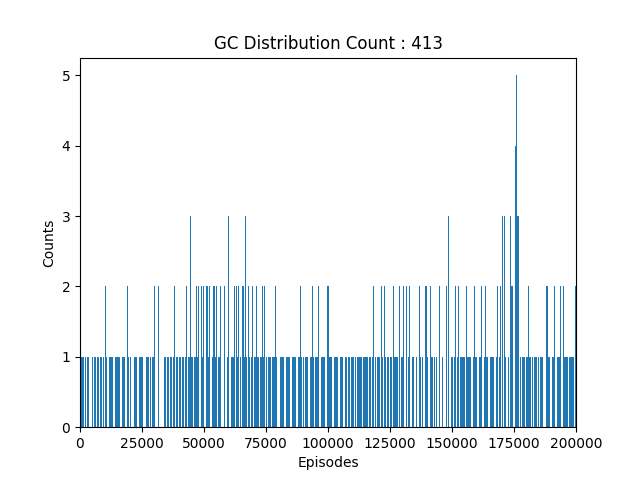
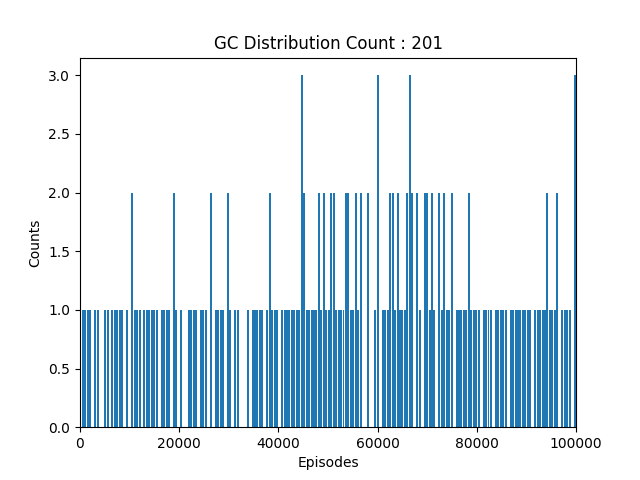
add RL mode the testcase is in agent.py

diff --git a/host/host_interface.py b/host/host_interface.py
@@ -10,17 +10,66 @@ TRACE_LENGTH = int(os.getenv('TRACE_LENGTH'))
 class HostInterface:
     def __init__(self):
         #self.hostRequestQueue = HostRequestQueue()
-        self.count = 0
+        self.episode = 0
+        self.step = 0
         self.hostRequestQueueAction = HostRequestQueueAction()
         self.hostRequestQueueAction.LoadTrace(TRACE_PATH, TRACE_LENGTH)
         self.flashTranslation = FlashTranslation()
+        self.currentRequest = None
 
-    # environment step
+    # reset everything
+    def Reset(self):
+        self.flashTranslation.Reset()
+        self.hostRequestQueueAction.Reset()
+        self.episode = 0 
+        self.step = 0
+        self.currentRequest = self.hostRequestQueueAction.GetWriteRequest()
+        return self.currentRequest
+
+    # only reset flash translation and set environment for new episode
+    def NewEpisode(self):
+        self.flashTranslation.Reset()
+        self.episode += 1
+        self.step = 0
+        self.currentRequest = self.hostRequestQueueAction.GetWriteRequest()
+        return self.currentRequest
+
+    # only work for testing strategy
+    def SetStrategyType(self, strategyType):
+        self.flashTranslation.SetStrategyType(strategyType)
+
+    def GetFreeSpaceRatio(self):
+        return self.flashTranslation.nandController.GetFreeSpaceRatio()
+
+    def GetRewardAndWAF(self):
+        return self.flashTranslation.nandController.GetRewardAndWAF()
+    
+    def UpdateBlockWAFDistribution(self):
+        self.flashTranslation.nandController.UpdateBlockWAFDistribution()
+
+    def GetDistributionCounter(self):
+        return self.flashTranslation.nandController.distributionCounter
+
+    def GetGCSuccessEpisodes(self):
+        return self.flashTranslation.garbageCollection.gcHistory.gcSuccessEpisodes        
+
+    # environment step for testing strategy
     def Step(self):
         writeRequest = self.hostRequestQueueAction.GetWriteRequest()
         totalWriteBytes = self.Fio(writeRequest)
-        self.count += 1
+        self.step += 1
         return writeRequest, totalWriteBytes
 
     def Fio(self, request):
-        return self.flashTranslation.Write(request, self.count)
+        return self.flashTranslation.Write(request, self.step)
+    
+    # environment step for RL strategy
+    def StepByAction(self, action):
+        totalWriteBytes = self.FioByAction(self.currentRequest, action)
+        self.step += 1
+        self.currentRequest = self.hostRequestQueueAction.GetWriteRequest()
+        reward, waf = self.GetRewardAndWAF()
+        return reward, self.currentRequest
+    
+    def FioByAction(self, request, action):
+        return self.flashTranslation.WriteByAction(request, self.step, action)

diff --git a/ftl/flash_translation.py b/ftl/flash_translation.py
@@ -21,9 +21,17 @@ class FlashTranslation:
         self.garbageCollection = GarbageCollection(self.nandController, self.addressTranslation)
         self.strategyType = None
 
+    def Reset(self):
+        self.dataCacheManage.Reset()
+        self.nandController.Reset()
+        self.addressTranslation.Reset()
+        self.garbageCollection.Reset()
+
+    # oonly work for testing strategy
     def SetStrategyType(self, strategyType):
         self.strategyType = strategyType
 
+    # only work for testing strategy
     def GetBlockType(self, request):
         if self.strategyType == 'All':
             action = ACTION_SPACE[0]
@@ -34,7 +42,7 @@ class FlashTranslation:
         return action
     
     # return actual write bytes
-    def Write(self, request, episode):
+    def Write(self, request, step):
         totalWriteBytes = 0
         self.dataCacheManage.WriteCache(request)
         writeType = self.GetBlockType(request)
@@ -45,6 +53,22 @@ class FlashTranslation:
             programPage, writeBytes = self.nandController.Program(lbas, writeType)
             self.addressTranslation.Update(page, programPage)
             totalWriteBytes += writeBytes
-        if episode % ACTIVE_GC_PERIOD == 0:
-            totalWriteBytes += self.garbageCollection.AutoCheckByFullInvalid(episode)
+        if step % ACTIVE_GC_PERIOD == 0:
+            totalWriteBytes += self.garbageCollection.AutoCheckByFullInvalid(step)
+        return totalWriteBytes
+    
+    # work for RL strategy
+    def WriteByAction(self, request, step, action):
+        totalWriteBytes = 0
+        self.dataCacheManage.WriteCache(request)
+        writeType = ACTION_SPACE[action]
+        while True:
+            page = self.dataCacheManage.GetCache()
+            if not page: break
+            lbas = ([self.addressTranslation[address] for address in page])
+            programPage, writeBytes = self.nandController.Program(lbas, writeType)
+            self.addressTranslation.Update(page, programPage)
+            totalWriteBytes += writeBytes
+        if step % ACTIVE_GC_PERIOD == 0:
+            totalWriteBytes += self.garbageCollection.AutoCheckByFullInvalid(step)
         return totalWriteBytes

diff --git a/main.py b/main.py
@@ -16,18 +16,18 @@ SIMULATE_PROGRESS_RESULT = os.getenv('SIMULATE_PROGRESS_RESULT')
 
 def strategy(strategyType):
     hostInterface = HostInterface()
-    hostInterface.flashTranslation.SetStrategyType(strategyType)
+    hostInterface.SetStrategyType(strategyType)
     history = History()
     for i in tqdm(range(TRACE_LENGTH)):
         request, writeBytes = hostInterface.Step()
-        freeSpaceRatio = hostInterface.flashTranslation.nandController.GetFreeSpaceRatio()
+        freeSpaceRatio = hostInterface.GetFreeSpaceRatio()
         if i % ESTIMATE_WAF_PERIOD == 0:
-            reward, waf = hostInterface.flashTranslation.nandController.GetRewardAndWAF()
-            hostInterface.flashTranslation.nandController.UpdateBlockWAFDistribution()
+            reward, waf = hostInterface.GetRewardAndWAF()
+            hostInterface.UpdateBlockWAFDistribution()
             history.AddRewardAndWaf(i, reward, waf, freeSpaceRatio)
-    history.ShowBlockWAFDistribution(f'{WAF_DISTRIBUTION_RESULT}/{strategyType}.png', hostInterface.flashTranslation.nandController.distributionCounter)
+    history.ShowBlockWAFDistribution(f'{WAF_DISTRIBUTION_RESULT}/{strategyType}.png', hostInterface.GetDistributionCounter())
     history.ShowRewardAndWafHistory(f'{SIMULATE_PROGRESS_RESULT}/{strategyType}.png')
-    history.ShowGCDistribution(f'{GC_DISTRIBUTION_RESULT}/{strategyType}.png', hostInterface.flashTranslation.garbageCollection.gcHistory.gcSuccessEpisodes)
+    history.ShowGCDistribution(f'{GC_DISTRIBUTION_RESULT}/{strategyType}.png', hostInterface.GetGCSuccessEpisodes())
 
 def main():
     strategyTypes = STRATEGY_TYPES.split(',')

diff --git a/libs/distribution.py b/libs/distribution.py
@@ -10,17 +10,14 @@ EPSILON_RIGHT = float(os.getenv('EPSILON_RIGHT'))
 EPSILON_MIN = float(os.getenv('EPSILON_MIN'))
 EPSILON_DECAY = float(os.getenv('EPSILON_DECAY'))
 
-def GetRewardFunction():
-    delta = EPSILON - EPSILON_MIN
-    left = [EPSILON_MIN + delta * np.exp(-i / EPSILON_DECAY) for i in range(N//2)]
-    delta_right = EPSILON_RIGHT - EPSILON_MIN
-    right = [EPSILON_MIN + delta_right * np.exp(-i / EPSILON_DECAY) for i in range(N//2)]
-    right.sort()
-    left.extend(right)
-    return left
+delta = EPSILON - EPSILON_MIN
+reward_function = [EPSILON_MIN + delta * np.exp(-i / EPSILON_DECAY) for i in range(N//2)]
+delta_right = EPSILON_RIGHT - EPSILON_MIN
+right = [EPSILON_MIN + delta_right * np.exp(-i / EPSILON_DECAY) for i in range(N//2)]
+right.sort()
+reward_function.extend(right)
 
 def MultiplyRewardFunction(waf):
-    reward_function = GetRewardFunction()
     index = int(waf * N) - N - 1
     # return waf * reward_function[index]
     return reward_function[index]

diff --git a/ftl/gc/garbage_collection.py b/ftl/gc/garbage_collection.py
@@ -11,6 +11,10 @@ class GCHistory:
     def __init__(self) -> None:
         self.gcSuccessEpisodes = Counter()
         self.gcFailEpisodes = Counter()
+
+    def Reset(self):
+        self.gcSuccessEpisodes = Counter()
+        self.gcFailEpisodes = Counter()
     
     def Success(self, episode):
         self.gcSuccessEpisodes.update([episode])
@@ -24,6 +28,9 @@ class GarbageCollection:
         self.addressTranslation = addressTranslation
         self.gcHistory = GCHistory()
         
+    def Reset(self):
+        self.gcHistory.Reset()
+
     # use in passive gc, it will only run when free space is less than setting free ratio -- version 1
     # when there is an full invalid block do garbage collection, besides don't do -- version 2
     def AutoCheckByFullInvalid(self, episode):

diff --git a/ftl/nand/nand_controller.py b/ftl/nand/nand_controller.py
@@ -22,6 +22,14 @@ class NandController:
         self.distributionCounter = Counter()
         self.InitializeBlocks()
 
+    def Reset(self):
+        for block in self.blocks:
+            block.Reset()
+        self.freeBlockIndexes = deque([i for i in range(BLOCK_NUM)])
+        self.currentHotBlockIndex = None 
+        self.currentColdBlockIndex = None 
+        self.distributionCounter = Counter()
+
     def InitializeBlocks(self):
         PrintLog('Build Virtual Blocks...')
         for i in tqdm(range(BLOCK_NUM)):

diff --git a/agent.py b/agent.py
@@ -1,0 +1,15 @@
+from host.host_interface import HostInterface
+
+def main():
+    episodes = 100
+    steps = 10000
+    hostInterface = HostInterface()
+    for i in range(episodes):
+        state = hostInterface.NewEpisode()
+        for j in range(steps):
+            reward, nextState = hostInterface.StepByAction(1)
+            print(f'episode: {i}, step: {j}, state: {state}, reward: {reward}, nextState: {nextState}')
+            state = nextState
+
+if __name__ == "__main__":
+    main()

diff --git a/ftl/nand/block.py b/ftl/nand/block.py
@@ -19,6 +19,13 @@ class Block:
         self.currentPageIndex = 0
         self.type = BlockType.NONE
 
+    def Reset(self):
+        self.invalidPage = 0
+        self.currentPageIndex = 0
+        self.type = BlockType.NONE
+        for page in self.pages:
+            page.Reset()
+
     def IsFull(self):
         return self.currentPageIndex == NUMS_OF_PAGE_IN_BLOCK
 

diff --git a/ftl/nand/page.py b/ftl/nand/page.py
@@ -20,6 +20,11 @@ class Page:
         self.storeLbas = []
         self.isFree = True
 
+    # reset to initail state
+    def Reset(self):
+        self.storeLbas.clear()
+        self.isFree = True
+
     def Program(self, lbas) -> None:
         # 如果欲寫入的lba數量超過總容量
         if len(lbas) > NUMS_OF_LBA_IN_PAGE - len(self.storeLbas):

diff --git a/ftl/buffer/data_cache_manage.py b/ftl/buffer/data_cache_manage.py
@@ -9,6 +9,9 @@ class DataCacheManage:
     def __init__(self):
         self._writeBuffer = WriteBuffer()
 
+    def Reset(self):
+        self._writeBuffer = WriteBuffer()
+
     def WriteCache(self, request):
         lbaNums = request.bytes // LBA_BYTES
         if request.bytes % LBA_BYTES != 0: lbaNums += 1

diff --git a/ftl/address/address_translation.py b/ftl/address/address_translation.py
@@ -4,6 +4,9 @@ class AddressTranslation:
     def __init__(self):
         self.map = dict()
 
+    def Reset(self):
+        self.map.clear()
+
     def __getitem__(self, address):
         temp = self.map.get(address)
         if temp == None:
